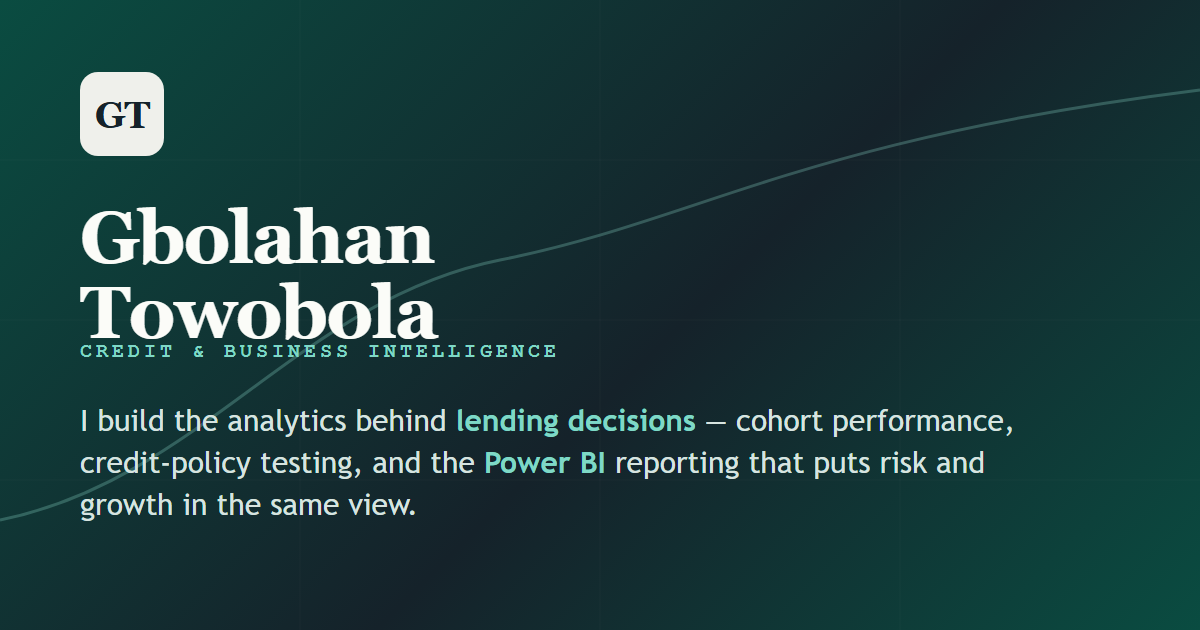
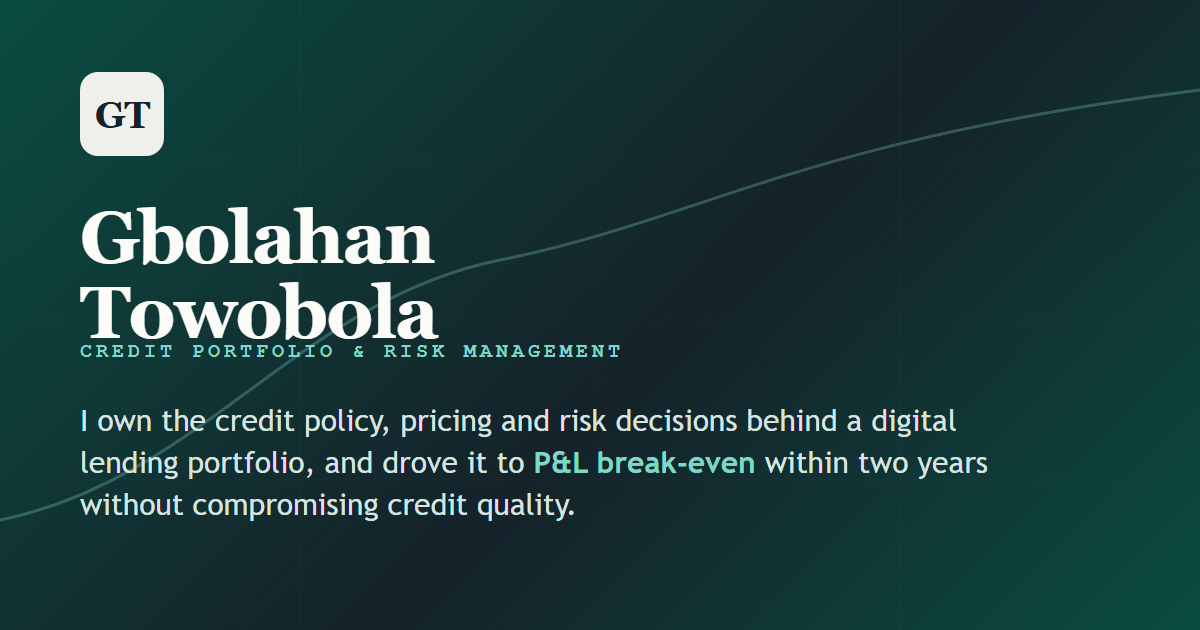
Reposition site copy as portfolio owner, not BI/analyst
Same repositioning applied to the CV: hero, about, and the "What I do"
section now lead with ownership and decisions (P&L break-even, 15%
approval growth, 20% impairment improvement, 58% FPD30 improvement)
instead of "I build/write/model." Capabilities go from 4 cards to 5 -
adding Portfolio ownership & P&L and Fraud & risk detection, which
weren't represented anywhere on the site despite being real work -
and folding BI/MIS + SQL/pipelines into one supporting-infrastructure
card. Drops the "under NDA" line from the projects intro now that
these figures are already public on the downloadable CV. Regenerates
og-cover.png to match the new eyebrow/thesis, and syncs meta tags and
the JSON-LD block. No em dashes in the new copy per feedback.

Changed region(s): [[0.0617, 0.6333, 0.8633, 0.754], [0.0617, 0.7841, 0.4933, 0.8444], [0.1542, 0.5429, 0.5242, 0.573]]

diff --git a/index.html b/index.html
@@ -3,10 +3,10 @@
 <head>
 <meta charset="utf-8" />
 <meta name="viewport" content="width=device-width, initial-scale=1" />
-<title>Gbolahan Towobola — Credit &amp; Business Intelligence</title>
-<meta name="description" content="Gbolahan Towobola builds the analytics behind lending decisions — cohort loan performance, credit policy testing, and the BI reporting leadership uses to make calls on approval, limits and collections." />
-<meta property="og:title" content="Gbolahan Towobola — Credit &amp; Business Intelligence" />
-<meta property="og:description" content="Credit risk analytics, built end to end — from SQL pipeline to the decision on the table." />
+<title>Gbolahan Towobola — Credit Portfolio &amp; Risk Management</title>
+<meta name="description" content="Gbolahan Towobola owns credit policy, pricing and risk decisions for a digital lending portfolio, driving it to P&amp;L break-even while growing approvals and cutting impairment and early default." />
+<meta property="og:title" content="Gbolahan Towobola — Credit Portfolio &amp; Risk Management" />
+<meta property="og:description" content="Credit policy, pricing and risk decisions for a digital lending portfolio, backed by the analytics that prove they work." />
 <meta property="og:type" content="website" />
 <meta property="og:image" content="https://gbolahant.github.io/images/og-cover.png" />
 <meta name="twitter:card" content="summary_large_image" />
@@ -20,8 +20,8 @@
   "@type": "Person",
   "name": "Gbolahan Towobola",
   "email": "mailto:Gbolahant@gmail.com",
-  "jobTitle": "Credit & Business Intelligence",
-  "description": "Builds the analytics behind lending decisions — cohort loan performance, credit policy testing, and the BI reporting leadership uses to make calls on approval, limits and collections.",
+  "jobTitle": "Credit Portfolio & Risk Management",
+  "description": "Owns credit policy, pricing and risk decisions for a digital lending portfolio, driving it to P&L break-even while growing approvals and cutting impairment and early default.",
   "url": "https://gbolahant.github.io/",
   "sameAs": [
     "https://www.linkedin.com/in/gbolahantowobola1",
@@ -338,12 +338,12 @@
   <section class="hero">
     <div class="wrap hero-grid">
       <div class="hero-copy">
-        <span class="eyebrow" data-field="eyebrow-hero">Credit &amp; Business Intelligence</span>
+        <span class="eyebrow" data-field="eyebrow-hero">Credit Portfolio &amp; Risk Management</span>
         <h1 data-field="name">Gbolahan<br>Towobola</h1>
-        <p class="thesis" data-field="thesis">I build the analytics behind <b>lending decisions</b> — cohort performance, credit-policy testing, and the <b>Power BI</b> reporting that puts risk and growth in the same view.</p>
-        <p class="sub" data-field="subtext">Five-plus years across Nigerian consumer lending and fintech, turning raw loan data into decisions on approval, limits and collections.</p>
+        <p class="thesis" data-field="thesis">I own the credit policy, pricing and risk decisions behind a digital lending portfolio, and drove it to <b>P&amp;L break-even</b> within two years without compromising credit quality.</p>
+        <p class="sub" data-field="subtext">Eight-plus years across Nigerian consumer lending and fintech, owning the portfolio calls that decide who gets approved, on what terms, and what happens when they don't pay.</p>
         <div class="stat-line">
-          <span data-field="stat1">5+ yrs credit &amp; BI</span><span class="dot">/</span>
+          <span data-field="stat1">8+ yrs credit portfolio &amp; risk</span><span class="dot">/</span>
           <span data-field="stat2">SQL · Power BI · Python</span><span class="dot">/</span>
           <span data-field="stat3">Lagos, NG</span>
         </div>
@@ -373,12 +373,12 @@
     <div class="wrap about-grid">
       <div>
         <span class="eyebrow reveal" data-field="about-eyebrow">The short version</span>
-        <p class="lead reveal" data-field="about-lead" style="margin-top:1rem">Most of my work lives at the seam between <b>credit risk</b> and <b>data engineering</b>.</p>
-        <p class="reveal" data-field="about-body">I write the SQL that shapes loan-performance data, model how cohorts repay across their life, test credit-policy changes before they ship, and build the Power BI reporting leadership actually uses to make calls. I care about analytics that ends in a decision — not a slide that gets admired and forgotten.</p>
+        <p class="lead reveal" data-field="about-lead" style="margin-top:1rem">I own portfolio performance for a digital consumer-lending book: the credit policy, pricing and risk calls that decide whether it grows profitably or not.</p>
+        <p class="reveal" data-field="about-body">I set eligibility, pricing, exposure and risk-treatment policy by segment, run the experiments that prove a change works before it ships, and I'm accountable when the portfolio's numbers move. The SQL, the models and the Power BI reporting are how I do that, not the point of the job.</p>
       </div>
       <dl class="aside reveal" id="aboutAside">
         <dt>Currently</dt>
-        <dd>Credit &amp; BI Portfolio Manager</dd>
+        <dd>Credit Portfolio Manager</dd>
         <dt>Focus</dt>
         <dd>Loan performance, credit policy &amp; experimentation</dd>
         <dt>Background</dt>
@@ -394,29 +394,34 @@
     <div class="wrap">
       <div class="section-hd">
         <span class="eyebrow reveal" data-field="work-eyebrow">What I do</span>
-        <h2 class="reveal" data-field="work-heading">Four things I get called in for.</h2>
-        <p class="reveal" data-field="work-intro">The through-line: I don't hand off between "analyst" and "engineer." I build the pipeline, the model and the report — so the answer arrives whole.</p>
+        <h2 class="reveal" data-field="work-heading">Five things I get called in for.</h2>
+        <p class="reveal" data-field="work-intro">The through-line: I own the decision, not just the analysis behind it. The pipeline, the model and the report all come from the same place the call gets made.</p>
       </div>
       <div class="cap-grid" id="capGrid">
         <div class="cap reveal">
           <span class="num">01</span>
-          <h3>Loan portfolio &amp; cohort analytics</h3>
-          <p>Vintage curves that track collection rate, first-payment default, approval rate and average ticket size across new and renewal cohorts — and across the loan sequence, so you can see exactly where a book earns or leaks.</p>
+          <h3>Portfolio ownership &amp; P&amp;L</h3>
+          <p>End-to-end ownership of portfolio performance: approval, exposure, revenue and risk-adjusted economics, tracked through vintage curves and cohort analysis, and driven from a standing start to <b>P&amp;L break-even</b> within two years without compromising credit quality.</p>
         </div>
         <div class="cap reveal">
           <span class="num">02</span>
-          <h3>Credit policy &amp; A/B testing</h3>
-          <p>Designing and reading experiments on limit, score-band and affordability rules — with sample-ratio checks, covariate balance and significance testing, so a policy change is proven before it goes live, not after.</p>
+          <h3>Credit policy design</h3>
+          <p>Eligibility, pricing, exposure limits and DTI/affordability treatment, set by risk band so stronger-risk customers earn better terms: the policy layer behind a 15% lift in approvals, a 20% drop in impairment, and a 58% improvement in early default.</p>
         </div>
         <div class="cap reveal">
           <span class="num">03</span>
-          <h3>Business intelligence &amp; MIS</h3>
-          <p>Power BI from the semantic model up — star-schema data models, well-behaved DAX, and reports leadership and risk committees actually run on. Built for a single source of truth and self-service, so the business stops asking the analyst and starts asking the data.</p>
+          <h3>Credit policy testing &amp; experimentation</h3>
+          <p>Designing and reading experiments on limit, score-band and affordability rules, with sample-ratio checks, covariate balance and significance testing, so a policy change is proven before it goes live, not after.</p>
         </div>
         <div class="cap reveal">
           <span class="num">04</span>
-          <h3>Data pipelines &amp; SQL</h3>
-          <p>Production SQL across a warehouse (Redshift-style): restructured, documented pipelines that feed both the reporting layer and the experimentation layer from one clean, trusted source.</p>
+          <h3>Fraud &amp; risk detection</h3>
+          <p>Investigative analysis that catches what standard metrics miss, including an email-similarity model that flagged a fraud ring hiding in plain sight, later adopted and extended into production by the Data Science team.</p>
+        </div>
+        <div class="cap reveal">
+          <span class="num">05</span>
+          <h3>Business intelligence, SQL &amp; data pipelines</h3>
+          <p>Power BI from the semantic model up: star-schema data models, well-behaved DAX, and reports leadership and risk committees actually run on. Underneath it, production SQL pipelines across a warehouse (Redshift-style) feed both the reporting and experimentation layers from one clean, trusted source.</p>
         </div>
       </div>
     </div>
@@ -450,7 +455,7 @@
       <div class="section-hd">
         <span class="eyebrow reveal" data-field="projects-eyebrow">Selected projects</span>
         <h2 class="reveal" data-field="projects-heading">A few public builds.</h2>
-        <p class="reveal" data-field="projects-intro">Demo work spanning Power BI, Python and Excel. The credit-portfolio work above is under NDA — happy to walk through it on a call.</p>
+        <p class="reveal" data-field="projects-intro">Work spanning Power BI, Python and Excel, and proof of the same toolkit and thinking behind the credit-portfolio numbers above, on data I can share in full.</p>
       </div>
       <div class="proj-grid" id="projGrid">
         <a class="proj reveal" href="project.html?p=marketing-analysis">

diff --git a/content.js b/content.js
@@ -25,10 +25,10 @@ window.SITE = {
 
   name_line1: "Gbolahan",
   name_line2: "Towobola",
-  eyebrow: "Credit & Business Intelligence",
-  thesis: "I build the analytics behind *lending decisions* — cohort performance, credit-policy testing, and the *Power BI* reporting that puts risk and growth in the same view.",
-  subtext: "{years}+ years across Nigerian consumer lending and fintech, turning raw loan data into decisions on approval, limits and collections.",
-  stat1: "{years}+ yrs credit & BI",
+  eyebrow: "Credit Portfolio & Risk Management",
+  thesis: "I own the credit policy, pricing and risk decisions behind a digital lending portfolio, and drove it to *P&L break-even* within two years without compromising credit quality.",
+  subtext: "{years}+ years across Nigerian consumer lending and fintech, owning the portfolio calls that decide who gets approved, on what terms, and what happens when they don't pay.",
+  stat1: "{years}+ yrs credit portfolio & risk",
 
   // The year you started working. The site counts the years from here
   // automatically, so the number above never goes out of date.
@@ -55,10 +55,10 @@ window.SITE = {
 
   about: {
     eyebrow: "The short version",
-    lead: "Most of my work lives at the seam between *credit risk*, *data analytics* and *data engineering*.",
-    body: "I write the SQL that shapes loan-performance data, model how cohorts repay across their life, test credit-policy changes before they ship, and build the Power BI reporting leadership actually uses to make calls. I care about analytics that ends in a decision — not a slide that gets admired and forgotten.",
+    lead: "I own portfolio performance for a digital consumer-lending book: the credit policy, pricing and risk calls that decide whether it grows profitably or not.",
+    body: "I set eligibility, pricing, exposure and risk-treatment policy by segment, run the experiments that prove a change works before it ships, and I'm accountable when the portfolio's numbers move. The SQL, the models and the Power BI reporting are how I do that, not the point of the job.",
     aside: [
-      { label: "Currently",  value: "Credit & BI Portfolio Manager" },
+      { label: "Currently",  value: "Credit Portfolio Manager" },
       { label: "Focus",      value: "Loan performance, credit policy & experimentation" },
       { label: "Background",  value: "Consumer lending & fintech, Nigeria" },
       { label: "Also",        value: "Teaching data skills · Esport" },
@@ -70,14 +70,15 @@ window.SITE = {
   /* ---------- "WHAT I DO" SECTION ---------- */
 
   work_eyebrow: "What I do",
-  work_heading: "Four things I get called in for.",
-work_intro: "The through-line: I don’t hand off between “analyst” and “engineer.” I build the pipeline, the model and the report — so the answer arrives whole.",
+  work_heading: "Five things I get called in for.",
+work_intro: "The through-line: I own the decision, not just the analysis behind it. The pipeline, the model and the report all come from the same place the call gets made.",
 
   capabilities: [
-    { title: "Loan portfolio & cohort analytics", body: "Vintage curves that track collection rate, first-payment default, approval rate and average ticket size across new and renewal cohorts — and across the loan sequence, so you can see exactly where a book earns or leaks." },
-    { title: "Credit policy & A/B testing",       body: "Designing and reading experiments on limit, score-band and affordability rules — with sample-ratio checks, covariate balance and significance testing, so a policy change is proven before it goes live, not after." },
-    { title: "Business intelligence & MIS",       body: "Power BI from the semantic model up — star-schema data models, well-behaved DAX, and reports leadership and risk committees actually run on. Built for a single source of truth and self-service." },
-    { title: "Data pipelines & SQL",              body: "Production SQL across a warehouse (Redshift-style): restructured, documented pipelines that feed both the reporting layer and the experimentation layer from one clean, trusted source." },
+    { title: "Portfolio ownership & P&L", body: "End-to-end ownership of portfolio performance: approval, exposure, revenue and risk-adjusted economics, tracked through vintage curves and cohort analysis, and driven from a standing start to *P&L break-even* within two years without compromising credit quality." },
+    { title: "Credit policy design",      body: "Eligibility, pricing, exposure limits and DTI/affordability treatment, set by risk band so stronger-risk customers earn better terms: the policy layer behind a 15% lift in approvals, a 20% drop in impairment, and a 58% improvement in early default." },
+    { title: "Credit policy testing & experimentation", body: "Designing and reading experiments on limit, score-band and affordability rules, with sample-ratio checks, covariate balance and significance testing, so a policy change is proven before it goes live, not after." },
+    { title: "Fraud & risk detection",     body: "Investigative analysis that catches what standard metrics miss, including an email-similarity model that flagged a fraud ring hiding in plain sight, later adopted and extended into production by the Data Science team." },
+    { title: "Business intelligence, SQL & data pipelines", body: "Power BI from the semantic model up: star-schema data models, well-behaved DAX, and reports leadership and risk committees actually run on. Underneath it, production SQL pipelines across a warehouse (Redshift-style) feed both the reporting and experimentation layers from one clean, trusted source." },
   ],
 
 
@@ -520,7 +521,7 @@ work_intro: "The through-line: I don’t hand off between “analyst” and “e
 
   projects_eyebrow: "Selected projects",
   projects_heading: "A few builds.",
-  projects_intro: "Work spanning Power BI, Python and Excel. The credit-portfolio work above is under NDA — happy to walk through it on a call.",
+  projects_intro: "Work spanning Power BI, Python and Excel, and proof of the same toolkit and thinking behind the credit-portfolio numbers above, on data I can share in full.",
 
 
   /* ---------- CERTIFICATIONS ---------- */
